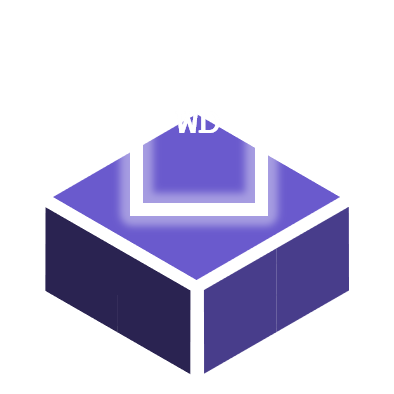
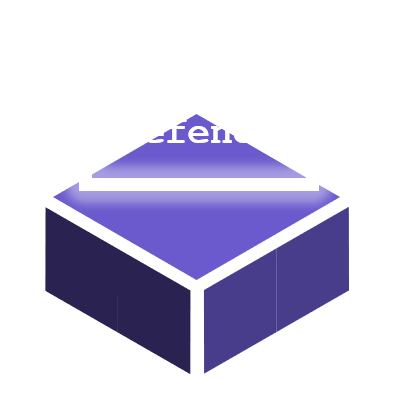
29.7.18 - Avalon Animations and Graphics

Changed region(s): [[0.1523, 0.2741, 0.8528, 0.5787]]

diff --git a/js/avalon.js b/js/avalon.js
@@ -20,6 +20,7 @@ function init(p) {
     results = [1,1,1,1,1];
     main.classList.add("hidden");
     board.classList.remove("hidden");
+    board.classList.add("reveal");
 
     for(var i = 0; i < quests.length; i++){
         if ((boards[set][i]%1)==0)
@@ -34,10 +35,14 @@ function start(n) {
     votes = 0;
     fails = 0;
     mission = n;
-    shade.classList.remove("hidden");
+    shade.classList.remove("hidden","conceal");
+    shade.classList.add("reveal");
     shade.innerText = cardinal(votes);
-    cardbox.classList.remove("hidden");
     board.style.filter = "blur(5px)";
+    setTimeout(function() {
+        cardbox.classList.add("reveal");
+        cardbox.classList.remove("hidden");
+    }, 500)
 }
 
 function cardinal(v) {
@@ -47,15 +52,15 @@ function cardinal(v) {
     else {
         switch(v) {
             case 0:
-                return "1st of "+(boards[set][mission-1]/1>>0);
+                return "1st\nout of "+(boards[set][mission-1]/1>>0);
             case 1:
-                return "2nd of "+(boards[set][mission-1]/1>>0);
+                return "2nd\nout of "+(boards[set][mission-1]/1>>0);
             case 2:
-                return "3rd of "+(boards[set][mission-1]/1>>0);
+                return "3rd\nout of "+(boards[set][mission-1]/1>>0);
             case 3:
-                return "4th of "+(boards[set][mission-1]/1>>0);
+                return "4th\nout of "+(boards[set][mission-1]/1>>0);
             case 4:
-                return "5th of "+(boards[set][mission-1]/1>>0);
+                return "5th\nout of "+(boards[set][mission-1]/1>>0);
         }
     }
 }
@@ -70,48 +75,60 @@ function vote(f) {
     if (votes>=((boards[set][mission-1])-0.5)) {
         var element = document.getElementById("m"+mission);
         if (fails >= 2) {
-            element.style.background = "darkred";
+            setTimeout(function() {
+                element.style.background = "darkred";
+            }, 500)
         }
         else if (fails >= 1 && (boards[set][mission-1]%1)==0){
-            element.style.background = "darkred";
+            setTimeout(function() {
+                element.style.background = "darkred";
+            }, 500)
         }
         else {
-            element.style.background = "darkblue";
+            setTimeout(function() {
+                element.style.background = "darkblue";
+            }, 500)
         }
         cardbox.classList.add("hidden");
         board.style.filter = "blur(0px)";
     }
 
     shade.innerText = cardinal(votes);
-    shade.classList.remove("hidden");
+    shade.classList.remove("conceal");
+    shade.classList.add("reveal");
 }
 
 function hide() {
     if (votes>=((boards[set][mission-1])-0.5)) {
         if (fails >=2) {
             shade.style.background = "darkred"
-            shade.innerText = "Failure\nFail x"+fails;
+            shade.innerText = "Failure\n("+fails+"x Fails)";
             results[mission-1] = 3;
         }
-        else if (fails >= 1 && (boards[set][mission-1]%1)==0) {
+        else if (fails == 1 && (boards[set][mission-1]%1)==0) {
             shade.style.background = "darkred"
-            shade.innerText = "Failure\nFail x"+fails;
+            shade.innerText = "Failure";
             results[mission-1] = 3;
         }
         else {
             shade.style.background = "darkblue"
-            shade.innerText = "Success\nFail x"+fails;
+            if(fails==1) {
+                shade.innerText = "Success\n(1 Fail)";
+            }
+            else {
+                shade.innerText = "Success"
+            }           
             results[mission-1] = 2;
         }
         
         
         // Game End Condition
         if (product()%8==0) {
-            shade.innerText = "Success\nFail x"+fails+"\n Victory";
+            shade.innerText = shade.innerText+"\nVictory";
             board.style.background = "midnightblue"
         }
         else if (product()%27==0) {
-            shade.innerText = "Failure\nFail x"+fails+"\n Defeat";
+            shade.innerText = shade.innerText+"\nDefeat";
             board.style.background = "firebrick"
         }
 
@@ -119,8 +136,9 @@ function hide() {
         fails = 0;
     }
     else {
-        shade.style.background = "black"        
-        shade.classList.add("hidden");
+        shade.style.background = "black";
+        shade.classList.remove("reveal");  
+        shade.classList.add("conceal");
     }
 }
 

diff --git a/games/index.html b/games/index.html
@@ -157,6 +157,44 @@
                 <br>                                      
             </div>
 
+            <div class="tile picture" id="t7" onclick="showHide(7)"></div>
+
+            <div class="tile information" id="t8"> 
+                <br>
+                <h2> <u>Avalon</u> </h2>
+                <br>
+                <p>
+                    <b> by T. Zhang (2018) </b>
+                    <br>
+                    <i> for Web - Mobile/Tablet/Desktop </i>
+                    <br><br>
+                    A digital board and card system for 
+                        <a href="https://boardgamegeek.com/boardgame/128882/resistance-avalon" target="_blank">
+                            <u>The&nbsp;Resistance:&nbsp;Avalon</u>
+                        </a>
+                    by Don Eskridge.
+                    <br><br>
+                    A social deception game inspired by Arthurian Legend. Now with hotseat style 
+                    pass-and-play mechanics that let you play almost anywhere!
+                    <br><br>
+                    Developed to improve the accessibility of the game. Secretly assign roles, 
+                    choose your digital board, and let the quests begin!
+                </p>
+                <br>
+                <div class ="download">
+                    <a href="../avalon/index.html" target="_blank">
+                        <img src="../img/games/dlavalon.png"> </img>
+                    </a>
+                </div>
+                <br>
+                <h4 class="download"><i>
+                    This web app is intended as a supplement, and is not a full featured replacement 
+                    for the original board game.
+                </i></h4>
+                <h3 class="back" onclick="hide()"> Hide </h3>      
+                <br>                                      
+            </div>
+
             <div class="footer"> 
                 <h3> &copy; Tony Zhang 2018 </h3>
             </div>

diff --git a/css/styles.css b/css/styles.css
@@ -343,6 +343,15 @@ img {
     grid-area: info;
 }
 
+#t7 {
+    grid-area: d;
+    background-image: url("../img/games/avalon.png");
+}
+
+#t8 {
+    grid-area: info;
+}
+
 /* Contact Styles */
 #contactContainer {
     background: linear-gradient(45deg,darkslateblue,70%,rebeccapurple);
@@ -511,12 +520,13 @@ img {
     #galleryLanding {
         display: grid;
         grid-template-columns: 20px 60vw 1fr 20px;
-        grid-template-rows: auto 1fr 1fr 1fr 20px auto;
+        grid-template-rows: auto 1fr 1fr 1fr 1fr 20px auto;
         grid-template-areas:
             "nav nav nav nav"
             "x info a y"
             "x info b y"
             "x info c y"
+            "x info d y"
             "z z z z"
             "footer footer footer footer"
     }
@@ -585,10 +595,10 @@ img {
     #galleryLanding {
         display: grid;
         grid-template-columns: 40vw 1fr 1fr;
-        grid-template-rows: auto 2fr 1fr 20px auto;
+        grid-template-rows: auto 1fr 1fr 20px auto;
         grid-template-areas:
             "nav nav nav"
-            "info a a"
+            "info a d"
             "info b c"
             "z z z"
             "footer footer footer"

diff --git a/css/avalon.css b/css/avalon.css
@@ -132,6 +132,28 @@ img {
     font-size: 96pt;
 }
 
+@keyframes reveal {
+    from {opacity: 0; visibility: hidden;}
+    to {opacity: 1; visibility: visible;}
+}
+
+@keyframes conceal {
+    from {opacity: 1; visibility: visible;}
+    to {opacity: 0; visibility: hidden;}
+}
+
+.reveal {
+    animation-name: reveal;
+    animation-duration: 0.25s;
+    visibility: visible;
+}
+
+.conceal {
+    animation-name: conceal;
+    animation-duration: 0.25s;
+    visibility: hidden;
+}
+
 .hidden {
     visibility: hidden;
 }

diff --git a/avalon/index.html b/avalon/index.html
@@ -16,7 +16,7 @@
             <div id="title">
                 Avalon
             </div>
-            <img id ="mainpic" src="../img/iconD.png">
+            <img id ="mainpic" src="../img/avalon/swordstone.png">
             <div class="players" id="p5" onclick="init(1)">
                 5P
             </div>
